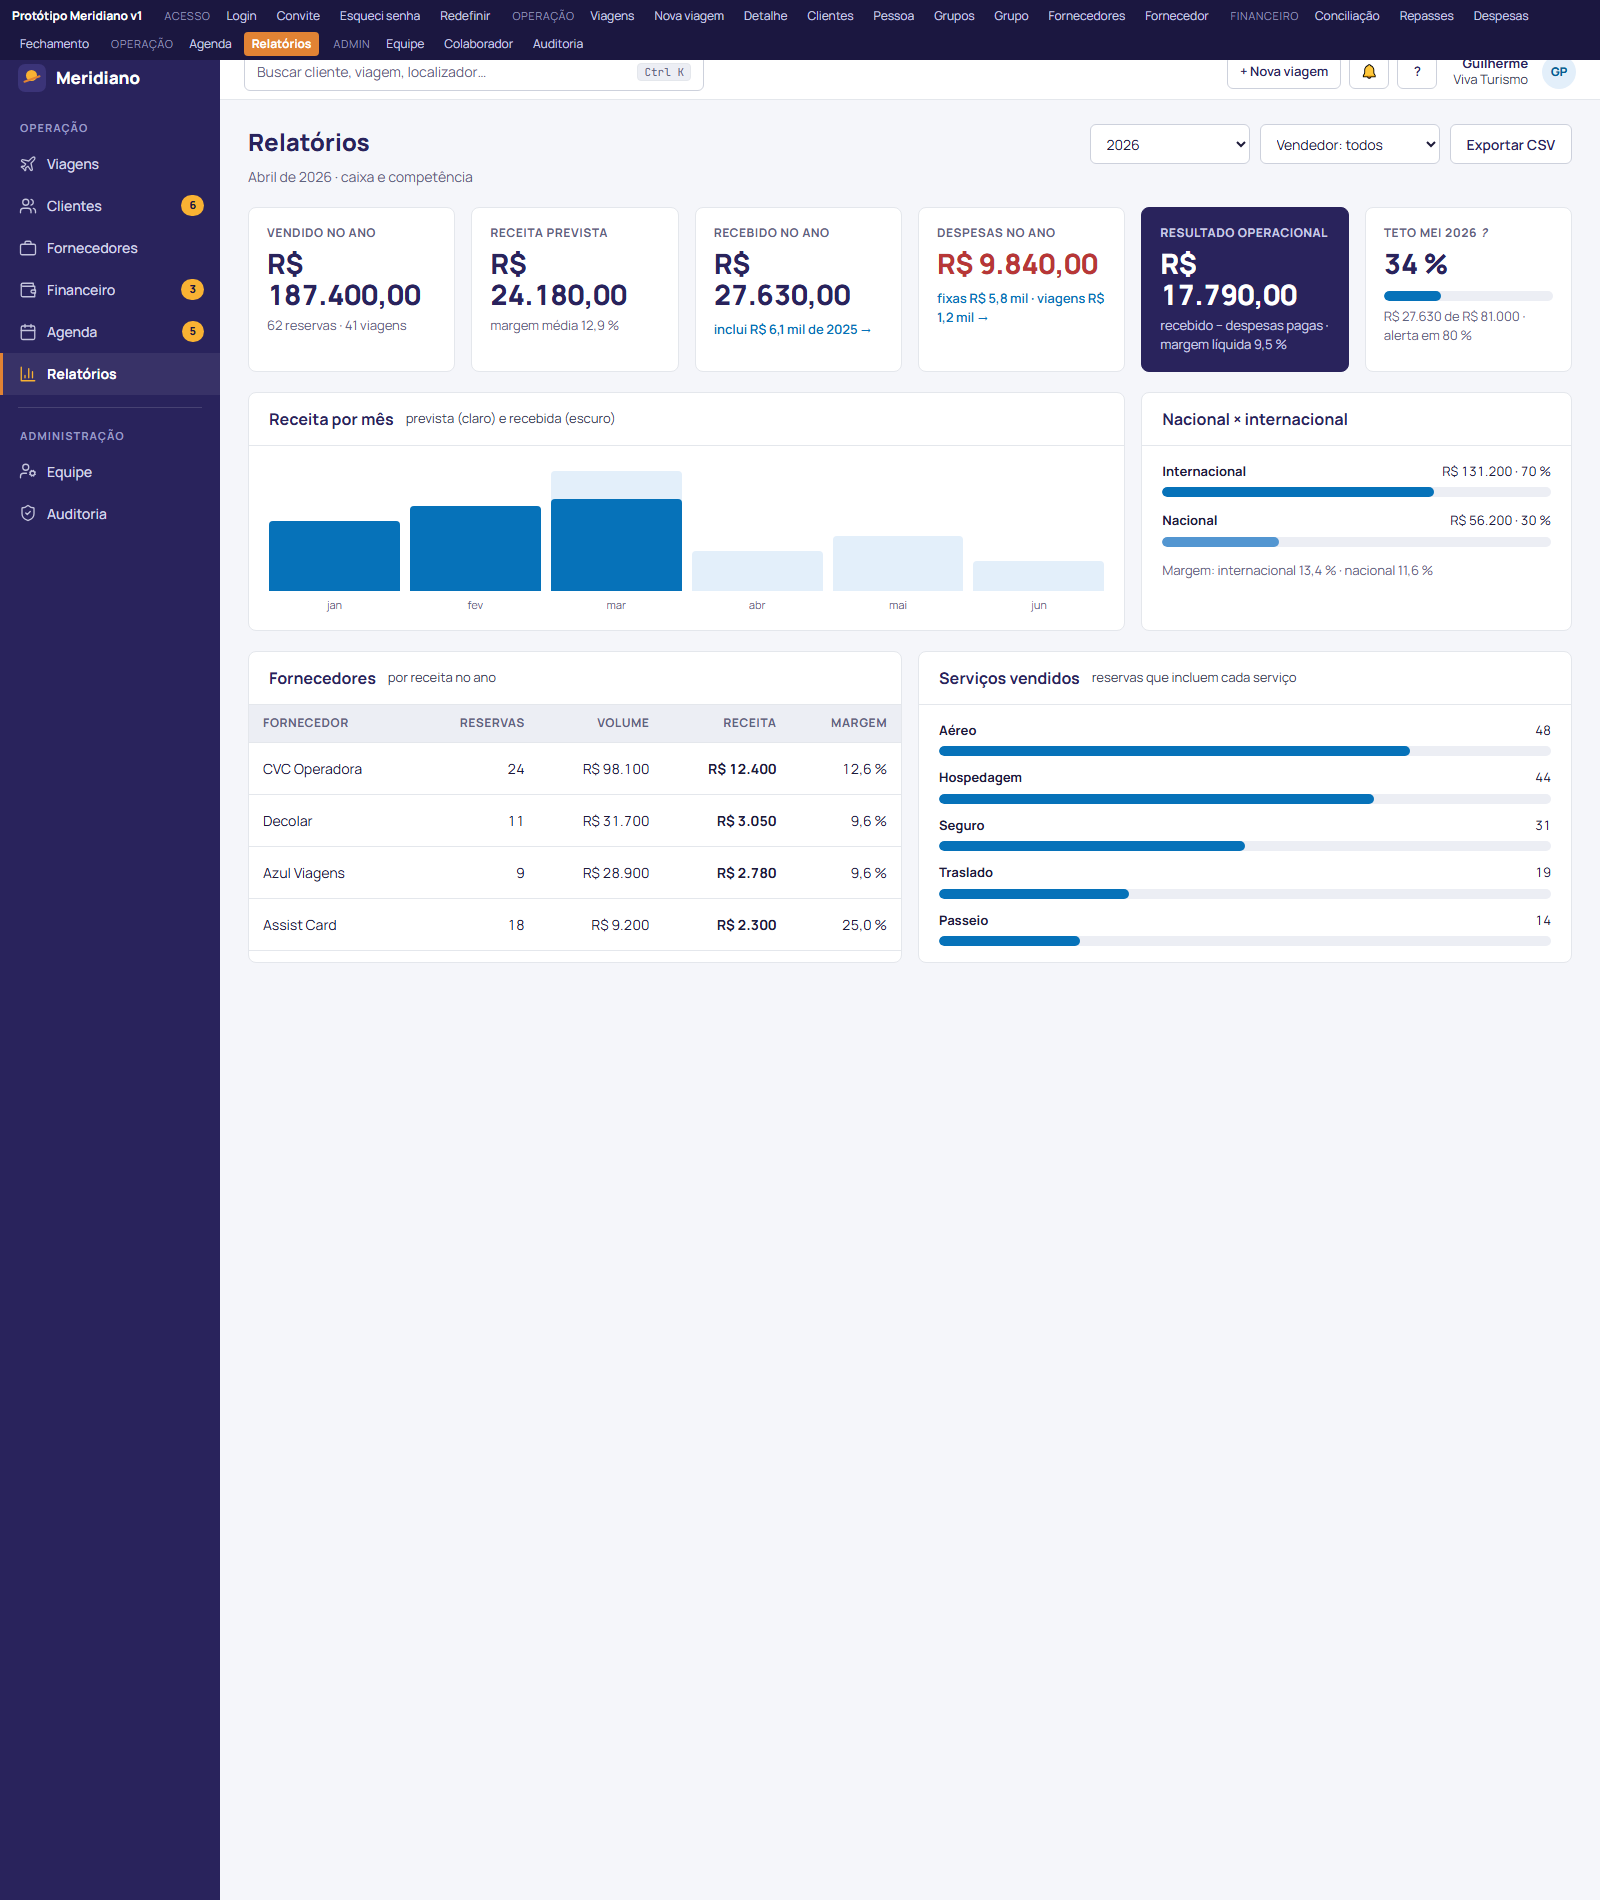
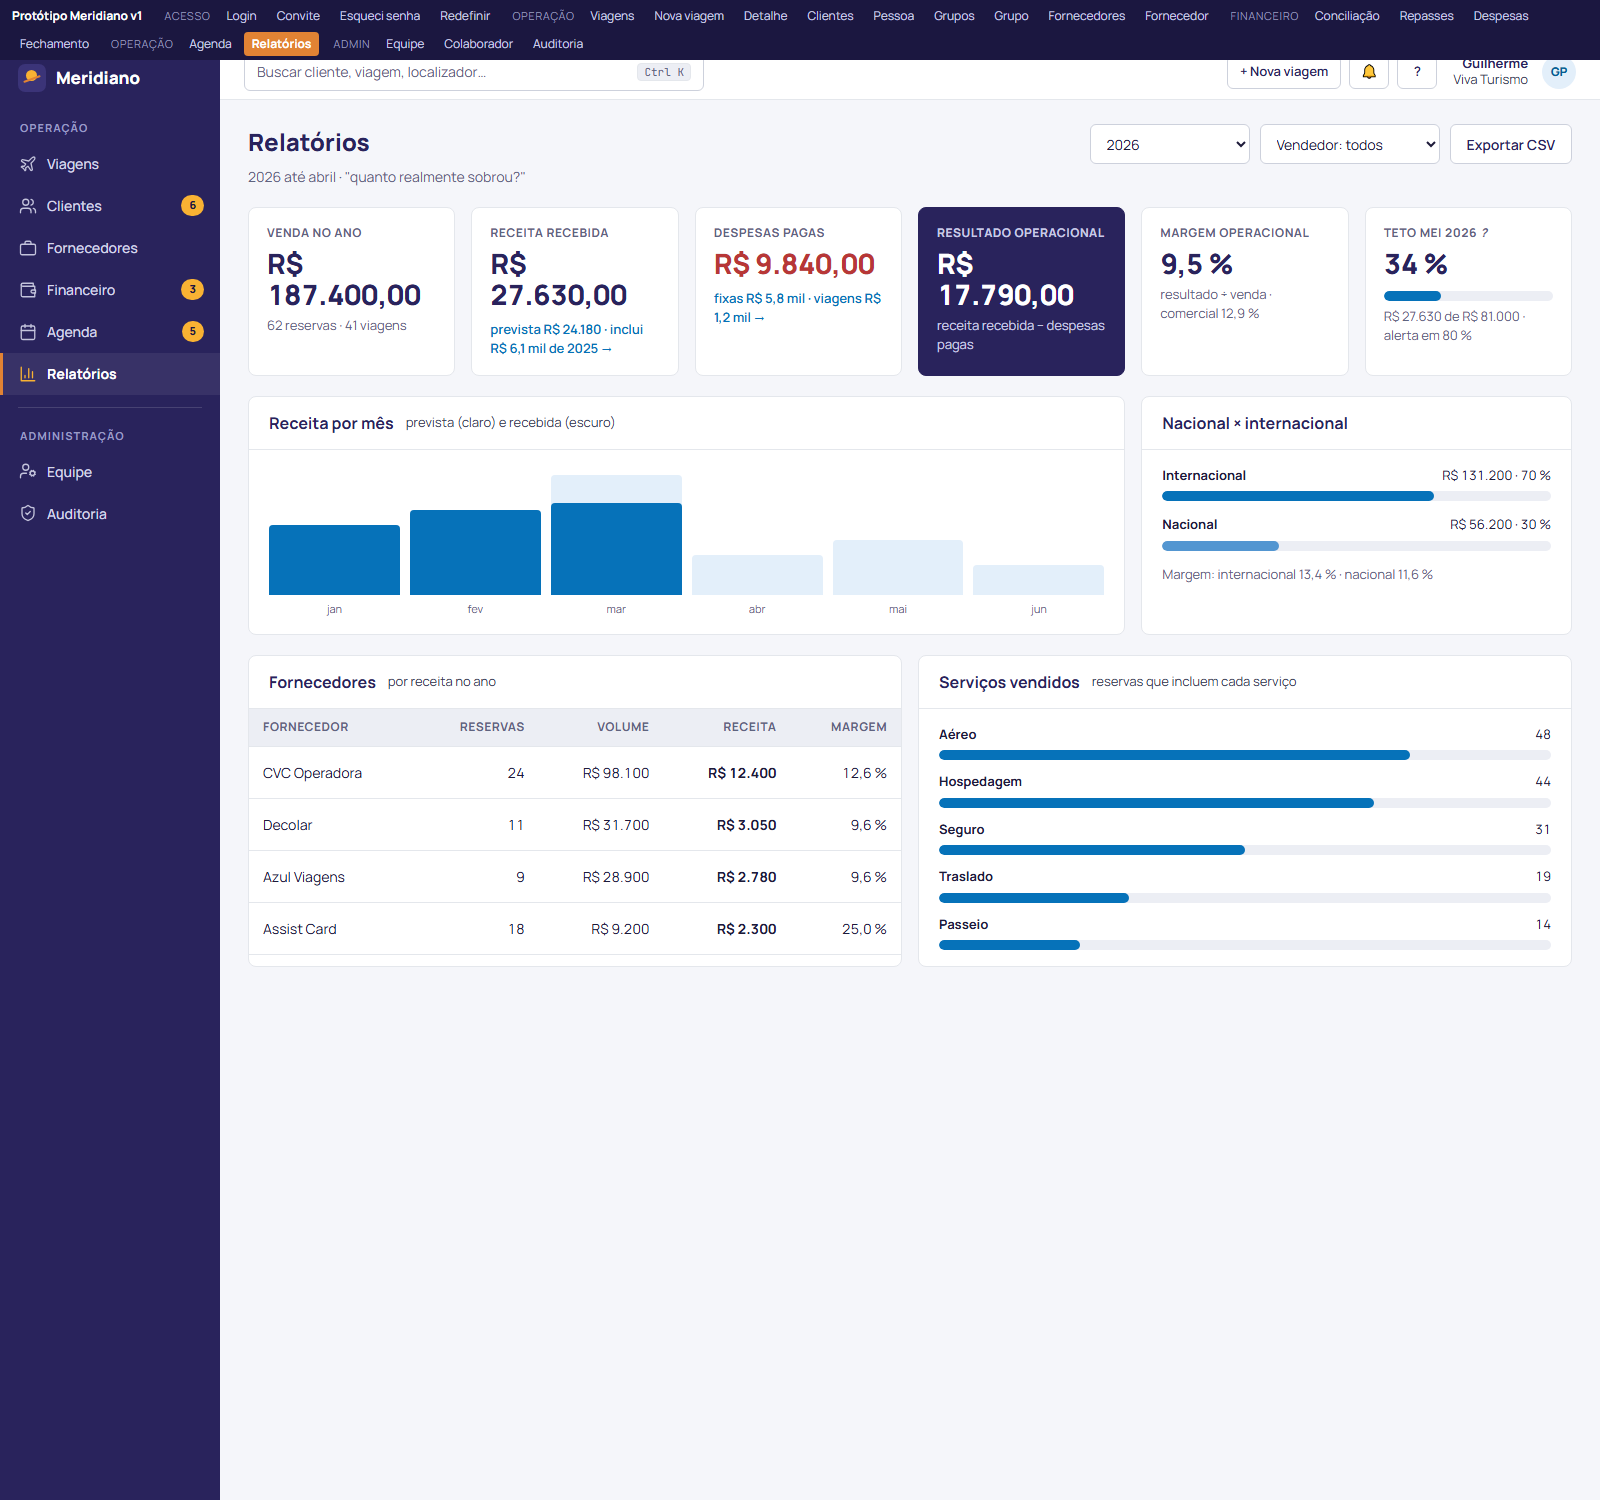
design: final refinements and freeze (review 5) — vocabulary, comissoes recebidas, responsive summary strip, relatorios resultado-first
Claude-Session: https://claude.ai/code/session_011tZvivBCewCaE2KNRVEHV6

diff --git a/docs/design/prototipo-v1.html b/docs/design/prototipo-v1.html
@@ -203,6 +203,7 @@ kbd.k{font:11px var(--font-mono);border:1px solid var(--border-strong);border-bo
 .dont li{margin:6px 0}
 .changes{display:grid;grid-template-columns:repeat(2,1fr);gap:8px 24px;font-size:14px;color:var(--n-700)}
 .changes div::before{content:"→";color:var(--orange-600);font-weight:800;margin-right:8px}
+@media (max-width:1366px){.summary-strip{flex-wrap:wrap;row-gap:14px}.summary-strip .res{flex-basis:auto}.summary-strip > div[style*="margin-left:auto"]{width:100%;margin-left:0;text-align:left}.list .it > .mini{display:none}}
 @media (max-width:1000px){.swatches,.roles{grid-template-columns:repeat(3,1fr)}.type,.intro,.dont,.changes{grid-template-columns:1fr}.app{grid-template-columns:1fr}.side{display:none}.grid-4,.grid-3,.tiles{grid-template-columns:1fr 1fr}.fin{grid-template-columns:repeat(2,1fr)}}
 .dirty{font-size:13px;font-weight:600;color:var(--orange-700);margin-right:6px}
 .grp-f{display:flex;flex-direction:column;gap:14px}
@@ -460,7 +461,7 @@ kbd.k{font:11px var(--font-mono);border:1px solid var(--border-strong);border-bo
           <div class="field" style="min-width:250px"><div class="chips" style="min-height:40px;gap:6px;flex-wrap:nowrap"><span class="mini">Emissão:</span><input type="date" value="2026-03-01" style="flex:1;min-width:0"><input type="date" value="2026-04-30" style="flex:1;min-width:0"></div></div>
         </div>
         <div class="tblwrap"><table>
-          <thead><tr><th>Viagem</th><th>Ida</th><th>Vendedor</th><th>Fase</th><th>Financeiro</th><th class="r">Vendido</th><th class="r">Receita</th></tr></thead>
+          <thead><tr><th>Viagem</th><th>Ida</th><th>Vendedor</th><th>Fase</th><th>Financeiro</th><th class="r">Venda</th><th class="r">Receita</th></tr></thead>
           <tbody>
             <tr onclick="location.hash='#/viagem'"><td><div class="primary">Carlos Mendes</div><div class="secondary">Lisboa · Internacional · <span class="code">VG-2026-0042</span></div></td><td class="muted">18/04/2026</td><td class="muted">Ana Paula</td><td><span class="pill p-info">em emissão</span></td><td><span class="pill p-info">a receber</span></td><td class="r num">R$ 13.700,00</td><td class="r num"><b>R$ 2.120,00</b></td></tr>
             <tr onclick="location.hash='#/viagem'"><td><div class="primary">Ana Beatriz Souza</div><div class="secondary">Cancún · Internacional · <span class="code">VG-2026-0041</span></div></td><td class="muted">04/04/2026</td><td class="muted">Guilherme</td><td><span class="pill p-primary">confirmada</span></td><td><span class="pill p-info">a receber</span></td><td class="r num">R$ 14.200,00</td><td class="r num"><b>R$ 1.610,00</b></td></tr>
@@ -578,7 +579,7 @@ kbd.k{font:11px var(--font-mono);border:1px solid var(--border-strong);border-bo
             <div><small>Comissão da vendedora</small><b>R$ 300,00</b></div><span class="sep"></span>
             <div><small>Despesas da viagem</small><b>R$ 180,00</b></div><span class="sep"></span>
             <div class="res"><small>Resultado da viagem <i class="help" title="Receita das reservas R$ 2.120 − comissão da vendedora R$ 300 − despesas vinculadas R$ 180">?</i></small><b>R$ 1.640,00</b></div>
-            <div style="margin-left:auto;text-align:right"><small style="font-size:12px;color:var(--text-muted);text-transform:uppercase;letter-spacing:.05em;font-weight:700">Recebido</small><br><b class="num" style="font-size:18px;color:var(--n-700)">R$ 0,00</b></div>
+            <div style="margin-left:auto;text-align:right"><small style="font-size:12px;color:var(--text-muted);text-transform:uppercase;letter-spacing:.05em;font-weight:700">Comissões recebidas</small><br><b class="num" style="font-size:18px;color:var(--n-700)">R$ 0,00</b></div>
           </div>
           <div class="split">
             <div class="block"><div class="bh"><h3>Reservas</h3><span class="meta">2 · clique para abrir</span></div><div class="list">
@@ -605,7 +606,7 @@ kbd.k{font:11px var(--font-mono);border:1px solid var(--border-strong);border-bo
         <div data-panel="financeiro" style="display:none;flex-direction:column;gap:20px">
           <div class="summary-strip">
             <div><small>Receita prevista</small><b>R$ 2.120,00</b></div><span class="sep"></span>
-            <div><small>Recebido</small><b>R$ 0,00</b></div><span class="sep"></span>
+            <div><small>Comissões recebidas</small><b>R$ 0,00</b></div><span class="sep"></span>
             <div><small>Comissão da vendedora</small><b>R$ 300,00</b> <span class="pill p-neutral">bloqueado</span></div><span class="sep"></span>
             <div><small>Despesas da viagem</small><b>R$ 180,00</b></div><span class="sep"></span>
             <div class="res"><small>Resultado da viagem</small><b>R$ 1.640,00</b></div>
@@ -1061,15 +1062,15 @@ kbd.k{font:11px var(--font-mono);border:1px solid var(--border-strong);border-bo
     <section class="screen" id="s-dashboard">
       <div class="page">
         <div class="page-head">
-          <div class="t"><h2>Relatórios</h2><div class="sub"><span>Abril de 2026 · caixa e competência</span></div></div>
+          <div class="t"><h2>Relatórios</h2><div class="sub"><span>2026 até abril · "quanto realmente sobrou?"</span></div></div>
           <div class="actions"><div class="field" style="min-width:160px"><select><option>2026</option><option>2025</option></select></div><div class="field" style="min-width:180px"><select><option>Vendedor: todos</option></select></div><button class="btn btn-secondary">Exportar CSV</button></div>
         </div>
         <div class="tiles" style="grid-template-columns:repeat(6,1fr)">
-          <div class="tile"><small>Vendido no ano</small><b>R$ 187.400,00</b><span>62 reservas · 41 viagens</span></div>
-          <div class="tile"><small>Receita prevista</small><b>R$ 24.180,00</b><span>margem média 12,9 %</span></div>
-          <div class="tile"><small>Recebido no ano</small><b>R$ 27.630,00</b><a href="#">inclui R$ 6,1 mil de 2025 →</a></div>
-          <div class="tile"><small>Despesas no ano</small><b style="color:var(--red-700)">R$ 9.840,00</b><a href="#/custos">fixas R$ 5,8 mil · viagens R$ 1,2 mil →</a></div>
-          <div class="tile" style="background:var(--navy-800);border-color:var(--navy-800)"><small style="color:#c9cbe6">Resultado operacional</small><b style="color:#fff">R$ 17.790,00</b><span style="color:#c9cbe6">recebido − despesas pagas · margem líquida 9,5 %</span></div>
+          <div class="tile"><small>Venda no ano</small><b>R$ 187.400,00</b><span>62 reservas · 41 viagens</span></div>
+          <div class="tile"><small>Receita recebida</small><b>R$ 27.630,00</b><a href="#">prevista R$ 24.180 · inclui R$ 6,1 mil de 2025 →</a></div>
+          <div class="tile"><small>Despesas pagas</small><b style="color:var(--red-700)">R$ 9.840,00</b><a href="#/custos">fixas R$ 5,8 mil · viagens R$ 1,2 mil →</a></div>
+          <div class="tile" style="background:var(--navy-800);border-color:var(--navy-800)"><small style="color:#c9cbe6">Resultado operacional</small><b style="color:#fff">R$ 17.790,00</b><span style="color:#c9cbe6">receita recebida − despesas pagas</span></div>
+          <div class="tile"><small>Margem operacional</small><b>9,5 %</b><span>resultado ÷ venda · comercial 12,9 %</span></div>
           <div class="tile"><small>Teto MEI 2026 <i class="help" title="Base a confirmar com o contador: receita da agência (comissão + RAV + taxa) por caixa">?</i></small><b>34 %</b><div class="bar" style="margin-top:6px"><i style="width:34%"></i></div><span>R$ 27.630 de R$ 81.000 · alerta em 80 %</span></div>
         </div>
         <div class="three">

diff --git a/docs/design-system-contrato.md b/docs/design-system-contrato.md
@@ -95,6 +95,14 @@ Pendência é **derivada** (calculada a partir de viagens, documentos e cadastro
 - **Auditoria**: evento complexo tem "Ver detalhes" com diff campo a campo; a timeline fica curta.
 - **Barra do protótipo** (links de teste) não é produto; no app, navegação é sidebar + subnav + tabs.
 
+## 4.5 Freeze (2026-09-08)
+
+Design v1 **congelado** após a quinta revisão externa. Daqui em diante, mudança visual ou de fluxo só por: teste com usuário real · regra de negócio descoberta · dificuldade concreta de implementação · métrica de uso. Nunca por "ficaria mais bonito assim".
+
+Refinamentos finais incorporados: vocabulário "Venda" na lista; "Comissões recebidas" no resumo da viagem; faixa de resultado quebra linha abaixo de 1366px; responsável da pendência entra na descrição abaixo de 1366px; Relatórios abre com Venda · Receita recebida · Despesas pagas · Resultado operacional · Margem operacional.
+
+Regras que valem para sempre: até **6 tabs** horizontais por registro — a sétima vai para "Mais ▾" ou reagrupa; até **6 itens** de subnav por módulo; Nova viagem nunca vira wizard; sidebar continua rasa; nenhuma cor hex no app (`--color-text-inverse`, `--color-text-on-dark-muted`, `--color-*-text` cobrem os casos do mock).
+
 ## 5. Proibido (lint / code review)
 
 hex em componente · margin arbitrária · `font-size` solto · botão com cor custom · modal fora do componente padrão · badge de status fora do mapa · cálculo financeiro duplicado em tela · toast para confirmação simples · `window.alert` · tooltip para informação obrigatória · ícone de outra biblioteca · `@media` com valor fora dos breakpoints.

diff --git a/regras-e-escopo-v2.md b/regras-e-escopo-v2.md
@@ -303,6 +303,8 @@ Sem: Redis, fila, MediatR, CQRS, repository, microserviços, Kubernetes.
 | 46 | Despesas, não custos | Módulo chama-se **Despesas** (evita confusão com custo do fornecedor na reserva) |
 | 47 | Formas de pagamento | Chips multi; com mais de uma marcada, "Detalhar valores" (forma × valor) opcional |
 | 48 | Lote de recebimento | "Marcar recebidas" em lote só quando recebido = esperado; parcial/divergência é individual |
+| 49 | RAV do cliente | Fórmula `venda − custo` vale para a v1 (comissionada, markup, taxa separada). Câmbio, imposto e desconto explícito entram na v1.1 — não cristalizar como generated column definitiva; revisar com as 3 viagens reais da piloto |
+| 50 | Design congelado | Protótipo v1 aprovado em 2026-09-08 (22 telas). Mudanças só por uso real, regra nova, implementação ou métrica |
 | 35 | Navegação | Sidebar global (módulos) + subnav do módulo (≤ 6 itens) + tabs do registro (cada aba só com seu conteúdo). Acima de 6 itens no módulo: sub-sidebar interna por seções. Sem scroll horizontal de navegação |
 
 ### Pendências
